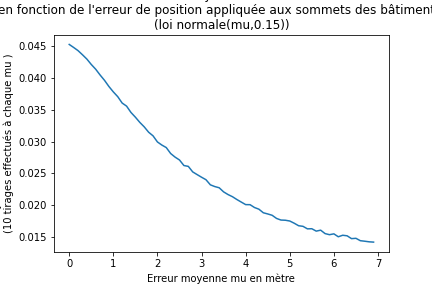
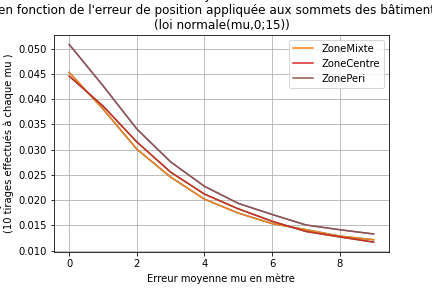
mise à jour 3 graphiques

diff --git a/form_factor/Form_factor.py b/form_factor/Form_factor.py
@@ -234,20 +234,31 @@ def analyse_loiNormale(fichier,X,sigma,nb_tirages):
     plt.title("Evolution de la moyenne du facteur forme \nen fonction de l'erreur de position appliquée aux sommets des bâtiments.\n(loi normale(mu,{0}))".format(sigma))
     plt.savefig("form_factor/Annexes/graphique_form_factor.png")
     
+    return listeF
 
  
 if __name__ == '__main__':
     
     os.chdir("..")
         
-    fichier='Fichier_JSON/zoneMixte.json'
-    data_initial=ouvre_json(fichier)
+    fichier1='Fichier_JSON/zoneMixte.json'
+    fichier2='Fichier_JSON/zoneCentre.json'
+    fichier3='Fichier_JSON/zonePeri.json'
+
     
-    
+    plt.figure(1)
     ## Application de la loi binomiale    
-    X=[i/10 for i in range(70)]
-    analyse_loiNormale(fichier,X,0.15,10)
-    
+    X=[i for i in range(10)]
+    #analyse_loiNormale(fichier,X,0.15,10)
+    plt.plot(X,analyse_loiNormale(fichier1,X,0.15,10),label='ZoneMixte')
+    plt.plot(X,analyse_loiNormale(fichier2,X,0.15,10),label='ZoneCentre')
+    plt.plot(X,analyse_loiNormale(fichier3,X,0.15,10),label='ZonePeri')
+    plt.legend()
+    plt.grid()
+    plt.xlabel("Erreur moyenne mu en mètre")
+    plt.ylabel("Moyenne des facteurs de forme\n(10 tirages effectués à chaque mu )")
+    plt.title("Evolution de la moyenne du facteur forme \nen fonction de l'erreur de position appliquée aux sommets des bâtiments.\n(loi normale(mu,0;15))")
+    plt.savefig("form_factor/Annexes/graphique_form_factor.png")
     
     
     
